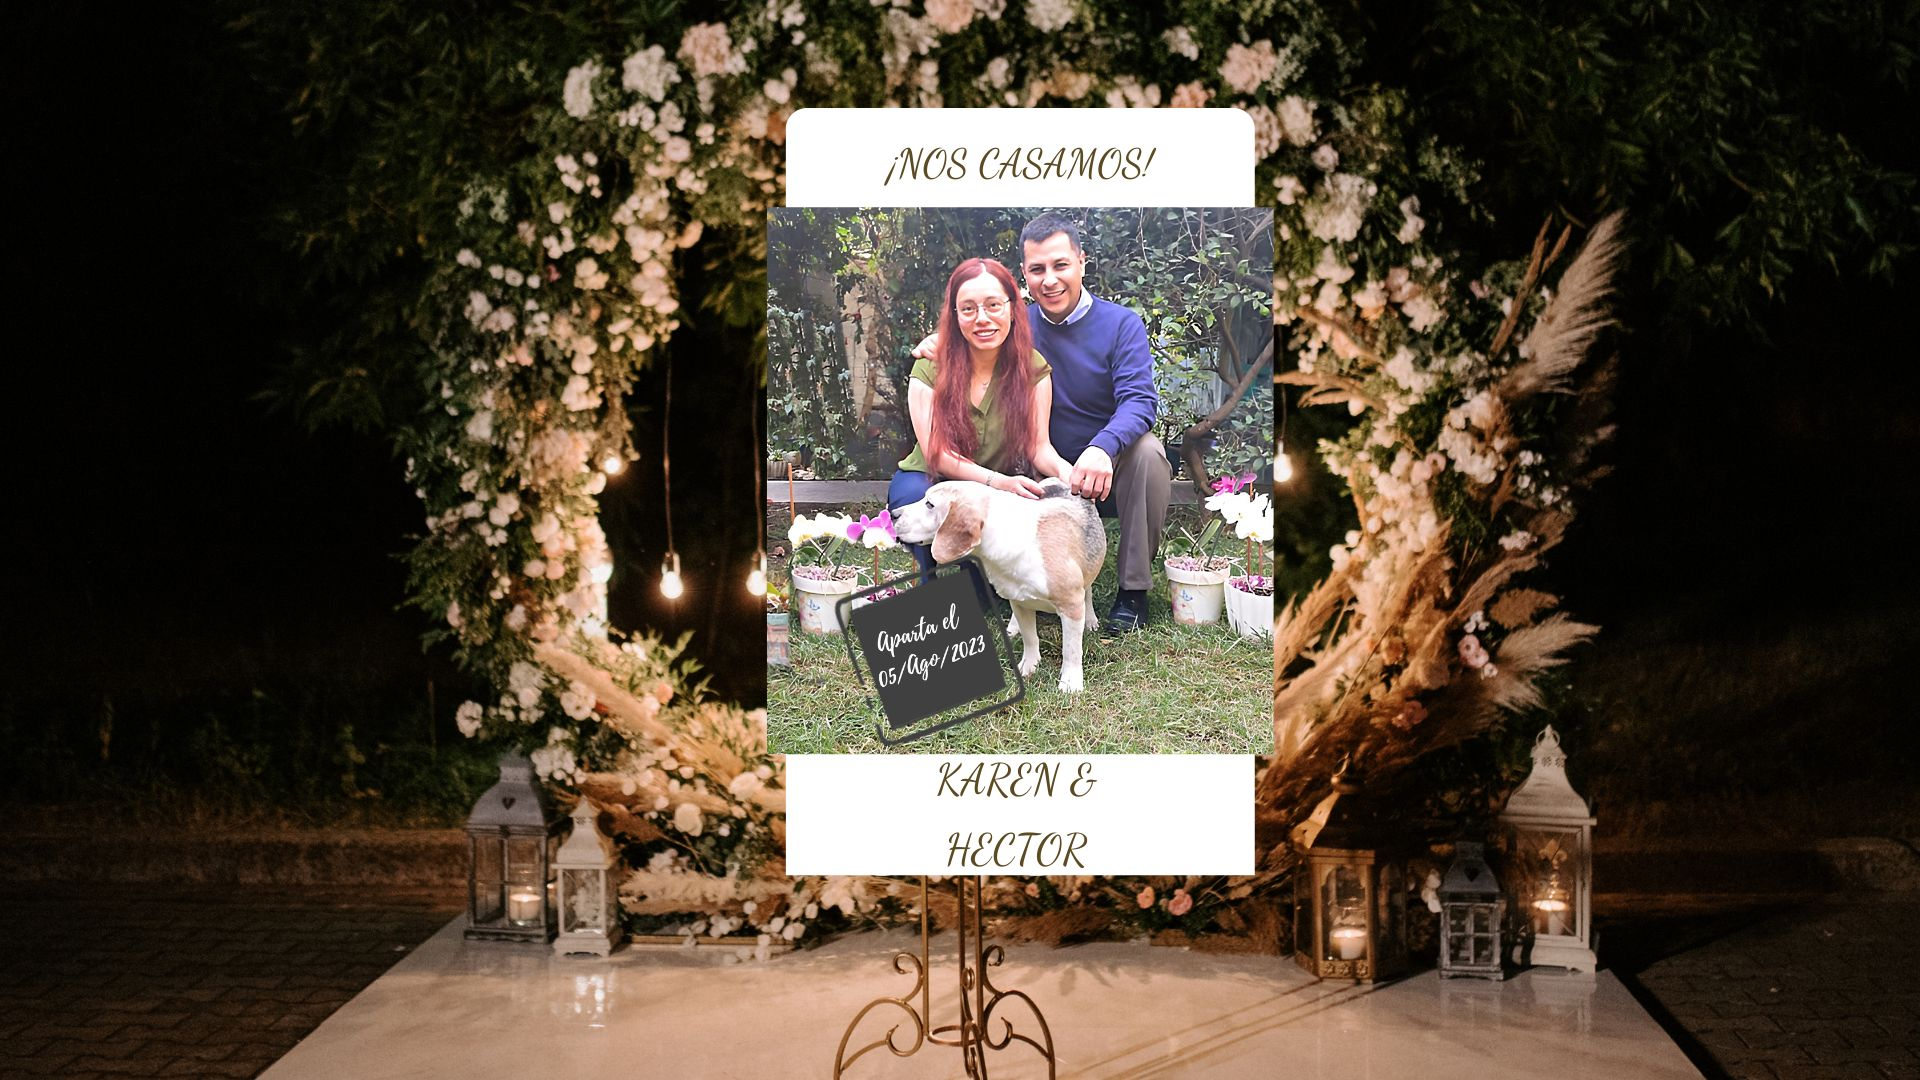
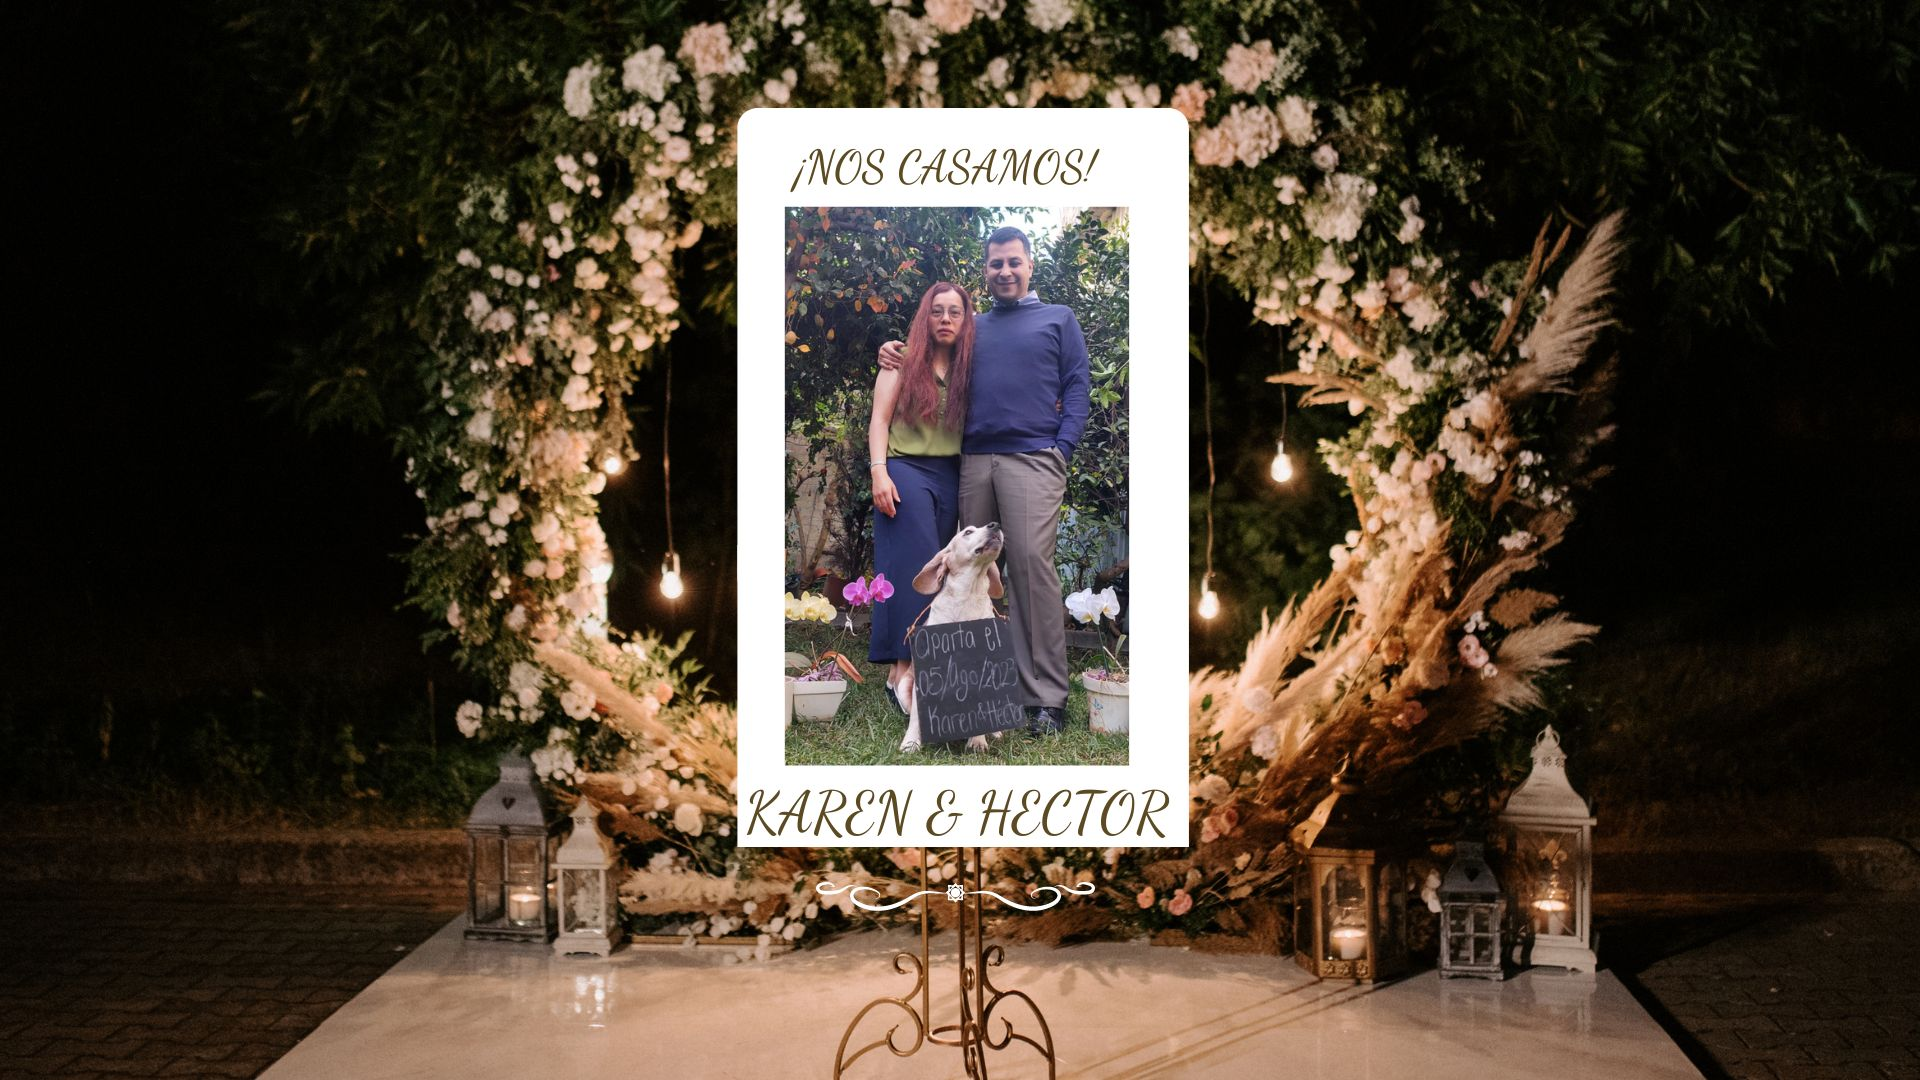
Responsive design tablet y escritorio

Changed region(s): [[0.375, 0.0917, 0.6875, 0.8556]]

diff --git a/css/pc_style.css b/css/pc_style.css
@@ -47,7 +47,7 @@ header {
     font-family: 'Cormorant Garamond', serif;;
     font-size: 3rem;   
     text-align: center;
-    line-height: 1.8rem;
+    line-height: 3.5rem;
     margin: 0 30px 30px 30px;
     
 }
@@ -57,24 +57,28 @@ header {
     height: 280px;
 }
 
-.programa-completo {
-    width: 100%;
-    min-width: 320px;
-    height: 100vh;
-    background-image: url(../assets/img/media_grande/programa_g.jpg);
-    background-position: center;
-    background-size: cover;
-    background-repeat: no-repeat;
+.menu-izquierdo .icon{
+    padding: 20px;
 }
-
-.padres_novios .novia p {
+.icon img{
+    width: 80px;
+    height: 80px;
+}
+.menu-derecho .texto{
+    padding-top: 27px;
+    padding-bottom: 27px;
+}
+.texto .hora{
     font-size: 3rem;
+    line-height: 1rem;
+} 
+.texto .itineario{
+    font-size: 2.5rem;
+} 
+.programa h2 {
+    font-size: 9rem;
 }
 
-.padres_novios .novia h3 {
-    margin-top: 3rem;
-    font-size: 5rem;
-}
 
 .countdown p {
     display: grid;
@@ -103,6 +107,9 @@ header {
     font-size: 3.5rem;
 }
 
+/* .regalos{
+    max-width: 780px;
+} */
 .regalos  p {
     font-size: 3rem;
     margin: 2rem;
@@ -115,13 +122,3 @@ header {
     align-self: center;
 }
 
-.gracias {
-    width: 100%;
-    min-width: 320px;
-    height: 100vh;
-    background-image: url(../assets/img/media_grande/gracias_g.jpg
-    );
-    background-position: center;
-    background-size: cover;
-    background-repeat: no-repeat;
-}

diff --git a/index.html b/index.html
@@ -6,7 +6,7 @@
     <meta name="viewport" content="width=device-width, initial-scale=1.0">
     <title>Boda K&H</title>
     <link rel="stylesheet" href="style.css">
-    <link rel="stylesheet" href="./css/pc_style.css" media="(min-width:930px)">
+    <link rel="stylesheet" href="./css/pc_style.css" media="(min-width:700px)">
     <link rel="preconnect" href="https://fonts.googleapis.com">
     <link rel="preconnect" href="https://fonts.gstatic.com" crossorigin>
     <link href="https://fonts.googleapis.com/css2?family=Bad+Script&display=swap" rel="stylesheet">
@@ -169,20 +169,17 @@
 </section>
 
 <!-- CONFIRMACIÓN DE ASISTENCIA NOVIA -->
-<section class="confirmacion-container">
+<!-- <section class="confirmacion-container">
     <h2>Confirmar asistencia</h2>
     <img src="./assets/img/sobre-sello.png" width="100px" height="100px"  alt="">
     <h3>Invitado: Marcela Diaz</h3>
     <p>Numero de boletos: 2</p>
-
-    <!-- <a href="https://wa.me/52"><img src="./assets/img/whatsup.png" width="30px" height="30px" alt=""></a> -->
-
     <a href="https://wa.me/527224496999"><button>Confirmar</button></a>
-</section>
+</section> -->
 
 <!-- SECCION GRACIAS -->
 <section class="gracias">
-    <img src="./assets/img/gracias_img.png" alt="">
+    <img src="./assets/img/gracias_img.jpg" alt="">
     <h2>¡Gracias!</h2>
 </section>
 

diff --git a/style.css b/style.css
@@ -180,7 +180,7 @@ header {
     background-repeat: no-repeat;
 }
 .programa h2{
-    padding-top: 5rem;
+    padding-top: 7rem;
     padding-bottom: 3rem;
 }
 .programa .menu {
@@ -307,21 +307,6 @@ header {
 }
 /* -------------------------------------- */
 
-/* SECCION GRACIAS */
-.gracias {
-    width: 100%;
-    min-width: 320px;
-    height: auto;
-    display: flex;
-    flex-direction: column;
-    justify-content: center;
-    /* padding-top: 1rem; */
-}
-.gracias h2{
-    padding: 4rem;
-}
-/* ------------------------------------------------ */
-
 /* CONFIRMAR ASISTENCIA */
 
 .confirmacion-container {
@@ -332,7 +317,7 @@ header {
     min-width: 320px;
     height: auto;
     text-align: center;
-    margin-bottom: 8rem;
+    margin-bottom: 4rem;
 }
 
 .confirmacion-container h2 {
@@ -362,3 +347,23 @@ header {
     color: #cda588;
     font-family: 'Cormorant Garamond', serif;
 }
+
+/* SECCION GRACIAS */
+.gracias {
+    width: 100%;
+    min-width: 320px;
+    height: auto;
+    display: flex;
+    flex-direction: column;
+    justify-content: center;
+    align-items: center;
+}
+.gracias h2{
+    padding: 3rem;
+}
+.gracias img {
+    width: 250px;
+    height: 250px;
+    padding-top: 2rem;
+}
+/* ------------------------------------------------ */
